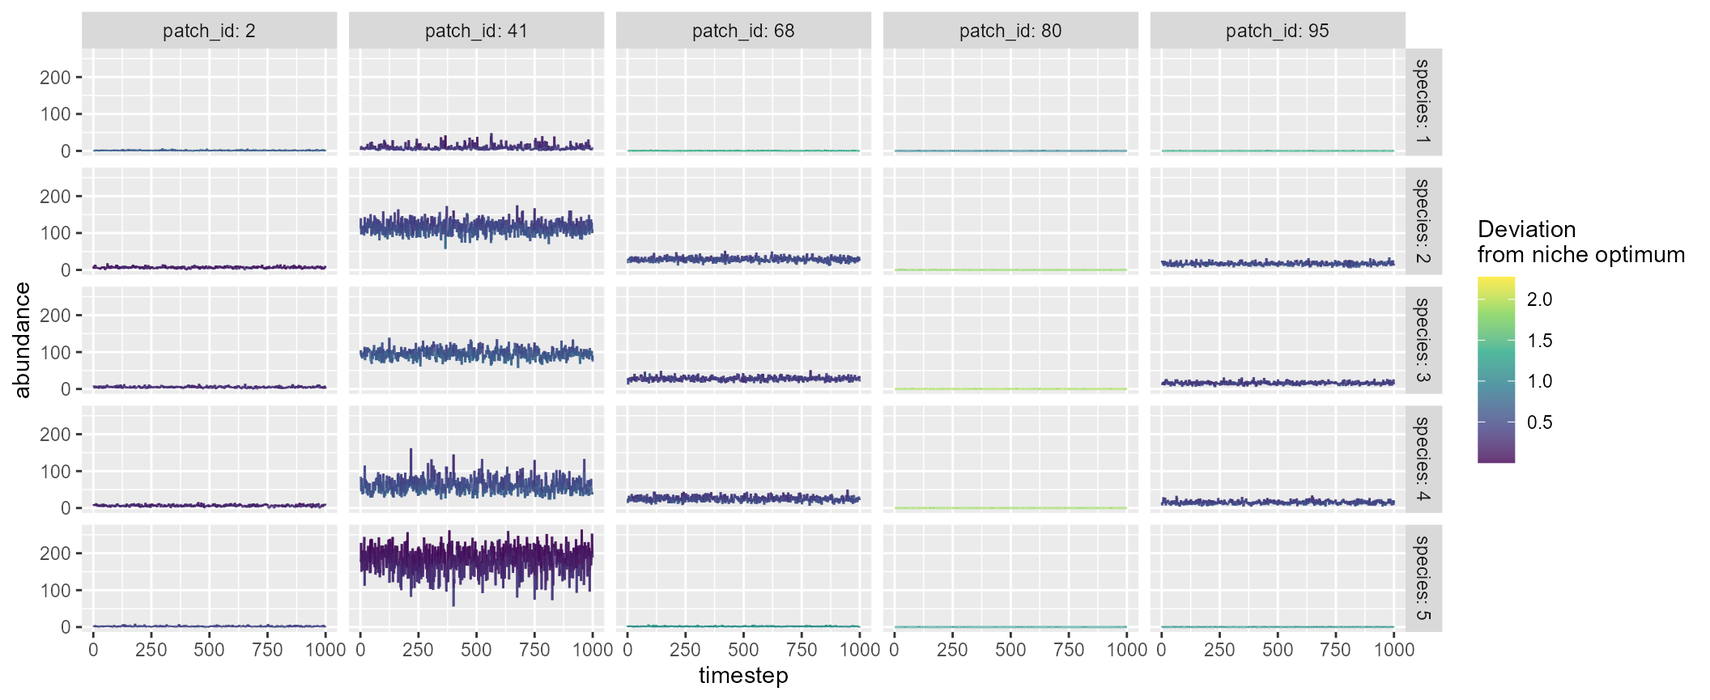
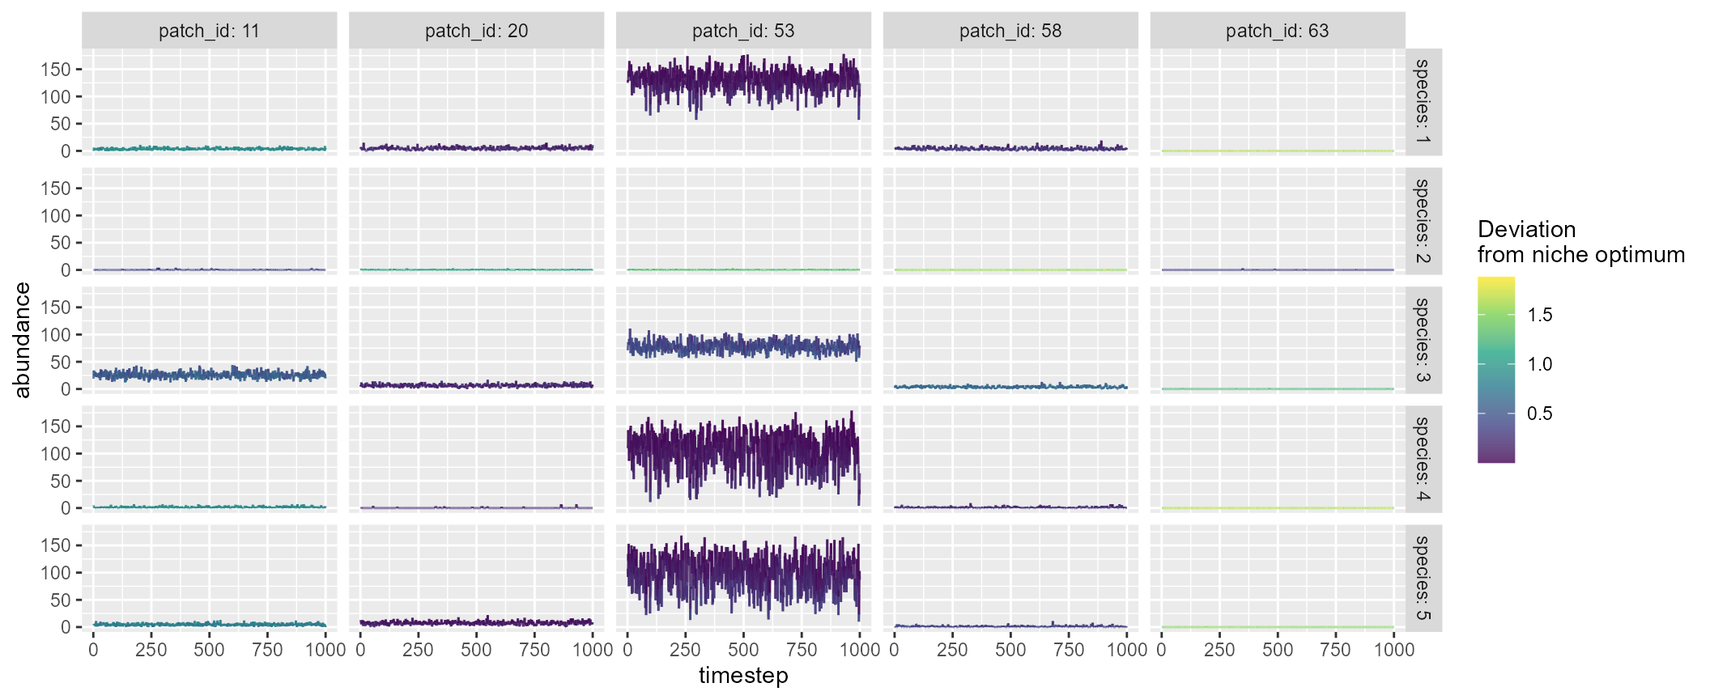
edit: pkg website

diff --git a/docs/articles/mcsim.html b/docs/articles/mcsim.html
@@ -198,64 +198,64 @@ species that are randomly chosen:</p>
 <code class="sourceCode R"><span><span class="va">mc</span></span>
 <span><span class="co">#&gt; $df_dynamics</span></span>
 <span><span class="co">#&gt; <span style="color: #949494;"># A tibble: 25,000 × 9</span></span></span>
-<span><span class="co">#&gt;    timestep patch_id mean_env    env carrying_capacity species niche_optim  r_xt</span></span>
-<span><span class="co">#&gt;       <span style="color: #949494; font-style: italic;">&lt;dbl&gt;</span>    <span style="color: #949494; font-style: italic;">&lt;dbl&gt;</span>    <span style="color: #949494; font-style: italic;">&lt;dbl&gt;</span>  <span style="color: #949494; font-style: italic;">&lt;dbl&gt;</span>             <span style="color: #949494; font-style: italic;">&lt;dbl&gt;</span>   <span style="color: #949494; font-style: italic;">&lt;dbl&gt;</span>       <span style="color: #949494; font-style: italic;">&lt;dbl&gt;</span> <span style="color: #949494; font-style: italic;">&lt;dbl&gt;</span></span></span>
-<span><span class="co">#&gt; <span style="color: #BCBCBC;"> 1</span>        1        1        0 0.073<span style="text-decoration: underline;">9</span>               100       1       0.416  2.45</span></span>
-<span><span class="co">#&gt; <span style="color: #BCBCBC;"> 2</span>        1        1        0 0.073<span style="text-decoration: underline;">9</span>               100       2      -<span style="color: #BB0000;">0.965</span>  1.24</span></span>
-<span><span class="co">#&gt; <span style="color: #BCBCBC;"> 3</span>        1        1        0 0.073<span style="text-decoration: underline;">9</span>               100       3      -<span style="color: #BB0000;">0.635</span>  1.92</span></span>
-<span><span class="co">#&gt; <span style="color: #BCBCBC;"> 4</span>        1        1        0 0.073<span style="text-decoration: underline;">9</span>               100       4       0.409  2.84</span></span>
-<span><span class="co">#&gt; <span style="color: #BCBCBC;"> 5</span>        1        1        0 0.073<span style="text-decoration: underline;">9</span>               100       5       0.812  1.85</span></span>
-<span><span class="co">#&gt; <span style="color: #BCBCBC;"> 6</span>        1        2        0 0.043<span style="text-decoration: underline;">6</span>               100       1       0.416  2.42</span></span>
-<span><span class="co">#&gt; <span style="color: #BCBCBC;"> 7</span>        1        2        0 0.043<span style="text-decoration: underline;">6</span>               100       2      -<span style="color: #BB0000;">0.965</span>  1.30</span></span>
-<span><span class="co">#&gt; <span style="color: #BCBCBC;"> 8</span>        1        2        0 0.043<span style="text-decoration: underline;">6</span>               100       3      -<span style="color: #BB0000;">0.635</span>  2.00</span></span>
-<span><span class="co">#&gt; <span style="color: #BCBCBC;"> 9</span>        1        2        0 0.043<span style="text-decoration: underline;">6</span>               100       4       0.409  2.72</span></span>
-<span><span class="co">#&gt; <span style="color: #BCBCBC;">10</span>        1        2        0 0.043<span style="text-decoration: underline;">6</span>               100       5       0.812  1.81</span></span>
+<span><span class="co">#&gt;    timestep patch_id mean_env      env carrying_capacity species niche_optim</span></span>
+<span><span class="co">#&gt;       <span style="color: #949494; font-style: italic;">&lt;dbl&gt;</span>    <span style="color: #949494; font-style: italic;">&lt;dbl&gt;</span>    <span style="color: #949494; font-style: italic;">&lt;dbl&gt;</span>    <span style="color: #949494; font-style: italic;">&lt;dbl&gt;</span>             <span style="color: #949494; font-style: italic;">&lt;dbl&gt;</span>   <span style="color: #949494; font-style: italic;">&lt;dbl&gt;</span>       <span style="color: #949494; font-style: italic;">&lt;dbl&gt;</span></span></span>
+<span><span class="co">#&gt; <span style="color: #BCBCBC;"> 1</span>        1        1        0  0.009<span style="text-decoration: underline;">79</span>               100       1      -<span style="color: #BB0000;">0.166</span></span></span>
+<span><span class="co">#&gt; <span style="color: #BCBCBC;"> 2</span>        1        1        0  0.009<span style="text-decoration: underline;">79</span>               100       2      -<span style="color: #BB0000;">0.754</span></span></span>
+<span><span class="co">#&gt; <span style="color: #BCBCBC;"> 3</span>        1        1        0  0.009<span style="text-decoration: underline;">79</span>               100       3       0.623</span></span>
+<span><span class="co">#&gt; <span style="color: #BCBCBC;"> 4</span>        1        1        0  0.009<span style="text-decoration: underline;">79</span>               100       4      -<span style="color: #BB0000;">0.196</span></span></span>
+<span><span class="co">#&gt; <span style="color: #BCBCBC;"> 5</span>        1        1        0  0.009<span style="text-decoration: underline;">79</span>               100       5       0.717</span></span>
+<span><span class="co">#&gt; <span style="color: #BCBCBC;"> 6</span>        1        2        0 -<span style="color: #BB0000;">0.007</span><span style="color: #BB0000; text-decoration: underline;">19</span>               100       1      -<span style="color: #BB0000;">0.166</span></span></span>
+<span><span class="co">#&gt; <span style="color: #BCBCBC;"> 7</span>        1        2        0 -<span style="color: #BB0000;">0.007</span><span style="color: #BB0000; text-decoration: underline;">19</span>               100       2      -<span style="color: #BB0000;">0.754</span></span></span>
+<span><span class="co">#&gt; <span style="color: #BCBCBC;"> 8</span>        1        2        0 -<span style="color: #BB0000;">0.007</span><span style="color: #BB0000; text-decoration: underline;">19</span>               100       3       0.623</span></span>
+<span><span class="co">#&gt; <span style="color: #BCBCBC;"> 9</span>        1        2        0 -<span style="color: #BB0000;">0.007</span><span style="color: #BB0000; text-decoration: underline;">19</span>               100       4      -<span style="color: #BB0000;">0.196</span></span></span>
+<span><span class="co">#&gt; <span style="color: #BCBCBC;">10</span>        1        2        0 -<span style="color: #BB0000;">0.007</span><span style="color: #BB0000; text-decoration: underline;">19</span>               100       5       0.717</span></span>
 <span><span class="co">#&gt; <span style="color: #949494;"># ℹ 24,990 more rows</span></span></span>
-<span><span class="co">#&gt; <span style="color: #949494;"># ℹ 1 more variable: abundance &lt;dbl&gt;</span></span></span>
+<span><span class="co">#&gt; <span style="color: #949494;"># ℹ 2 more variables: r_xt &lt;dbl&gt;, abundance &lt;dbl&gt;</span></span></span>
 <span><span class="co">#&gt; </span></span>
 <span><span class="co">#&gt; $df_species</span></span>
 <span><span class="co">#&gt; <span style="color: #949494;"># A tibble: 5 × 6</span></span></span>
 <span><span class="co">#&gt;   species mean_abundance    r0 niche_optim sd_niche_width p_dispersal</span></span>
 <span><span class="co">#&gt;     <span style="color: #949494; font-style: italic;">&lt;dbl&gt;</span>          <span style="color: #949494; font-style: italic;">&lt;dbl&gt;</span> <span style="color: #949494; font-style: italic;">&lt;dbl&gt;</span>       <span style="color: #949494; font-style: italic;">&lt;dbl&gt;</span>          <span style="color: #949494; font-style: italic;">&lt;dbl&gt;</span>       <span style="color: #949494; font-style: italic;">&lt;dbl&gt;</span></span></span>
-<span><span class="co">#&gt; <span style="color: #BCBCBC;">1</span>       1          44.4      4       0.416          0.915         0.1</span></span>
-<span><span class="co">#&gt; <span style="color: #BCBCBC;">2</span>       2           1.56     4      -<span style="color: #BB0000;">0.965</span>          0.794         0.1</span></span>
-<span><span class="co">#&gt; <span style="color: #BCBCBC;">3</span>       3          34.9      4      -<span style="color: #BB0000;">0.635</span>          0.740         0.1</span></span>
-<span><span class="co">#&gt; <span style="color: #BCBCBC;">4</span>       4          49.7      4       0.409          0.516         0.1</span></span>
-<span><span class="co">#&gt; <span style="color: #BCBCBC;">5</span>       5          23.1      4       0.812          0.994         0.1</span></span>
+<span><span class="co">#&gt; <span style="color: #BCBCBC;">1</span>       1           74.6     4      -<span style="color: #BB0000;">0.166</span>          0.349         0.1</span></span>
+<span><span class="co">#&gt; <span style="color: #BCBCBC;">2</span>       2           17.0     4      -<span style="color: #BB0000;">0.754</span>          0.616         0.1</span></span>
+<span><span class="co">#&gt; <span style="color: #BCBCBC;">3</span>       3            0       4       0.623          0.281         0.1</span></span>
+<span><span class="co">#&gt; <span style="color: #BCBCBC;">4</span>       4           54.7     4      -<span style="color: #BB0000;">0.196</span>          0.867         0.1</span></span>
+<span><span class="co">#&gt; <span style="color: #BCBCBC;">5</span>       5            0       4       0.717          0.364         0.1</span></span>
 <span><span class="co">#&gt; </span></span>
 <span><span class="co">#&gt; $df_patch</span></span>
 <span><span class="co">#&gt; <span style="color: #949494;"># A tibble: 5 × 5</span></span></span>
 <span><span class="co">#&gt;   patch_id alpha_div mean_env carrying_capacity disturbance</span></span>
 <span><span class="co">#&gt;      <span style="color: #949494; font-style: italic;">&lt;dbl&gt;</span>     <span style="color: #949494; font-style: italic;">&lt;dbl&gt;</span>    <span style="color: #949494; font-style: italic;">&lt;dbl&gt;</span>             <span style="color: #949494; font-style: italic;">&lt;dbl&gt;</span>       <span style="color: #949494; font-style: italic;">&lt;dbl&gt;</span></span></span>
-<span><span class="co">#&gt; <span style="color: #BCBCBC;">1</span>        1      4.04        0               100           0</span></span>
-<span><span class="co">#&gt; <span style="color: #BCBCBC;">2</span>        2      4           0               100           0</span></span>
-<span><span class="co">#&gt; <span style="color: #BCBCBC;">3</span>        3      4.33        0               100           0</span></span>
-<span><span class="co">#&gt; <span style="color: #BCBCBC;">4</span>        4      4.35        0               100           0</span></span>
-<span><span class="co">#&gt; <span style="color: #BCBCBC;">5</span>        5      4.06        0               100           0</span></span>
+<span><span class="co">#&gt; <span style="color: #BCBCBC;">1</span>        1      3           0               100           0</span></span>
+<span><span class="co">#&gt; <span style="color: #BCBCBC;">2</span>        2      3           0               100           0</span></span>
+<span><span class="co">#&gt; <span style="color: #BCBCBC;">3</span>        3      3           0               100           0</span></span>
+<span><span class="co">#&gt; <span style="color: #BCBCBC;">4</span>        4      3.00        0               100           0</span></span>
+<span><span class="co">#&gt; <span style="color: #BCBCBC;">5</span>        5      3           0               100           0</span></span>
 <span><span class="co">#&gt; </span></span>
 <span><span class="co">#&gt; $df_diversity</span></span>
 <span><span class="co">#&gt; <span style="color: #949494;"># A tibble: 1 × 3</span></span></span>
 <span><span class="co">#&gt;   alpha_div beta_div gamma_div</span></span>
 <span><span class="co">#&gt;       <span style="color: #949494; font-style: italic;">&lt;dbl&gt;</span>    <span style="color: #949494; font-style: italic;">&lt;dbl&gt;</span>     <span style="color: #949494; font-style: italic;">&lt;dbl&gt;</span></span></span>
-<span><span class="co">#&gt; <span style="color: #BCBCBC;">1</span>      4.16     1.05      4.35</span></span>
+<span><span class="co">#&gt; <span style="color: #BCBCBC;">1</span>      3.00     1.00         3</span></span>
 <span><span class="co">#&gt; </span></span>
 <span><span class="co">#&gt; $df_xy_coord</span></span>
 <span><span class="co">#&gt; <span style="color: #949494;"># A tibble: 5 × 2</span></span></span>
 <span><span class="co">#&gt;   x_coord y_coord</span></span>
 <span><span class="co">#&gt;     <span style="color: #949494; font-style: italic;">&lt;dbl&gt;</span>   <span style="color: #949494; font-style: italic;">&lt;dbl&gt;</span></span></span>
-<span><span class="co">#&gt; <span style="color: #BCBCBC;">1</span>    1.02  0.012<span style="text-decoration: underline;">1</span></span></span>
-<span><span class="co">#&gt; <span style="color: #BCBCBC;">2</span>    9.33  0.402 </span></span>
-<span><span class="co">#&gt; <span style="color: #BCBCBC;">3</span>    1.24  5.99  </span></span>
-<span><span class="co">#&gt; <span style="color: #BCBCBC;">4</span>    1.29  5.61  </span></span>
-<span><span class="co">#&gt; <span style="color: #BCBCBC;">5</span>    6.20  5.27  </span></span>
+<span><span class="co">#&gt; <span style="color: #BCBCBC;">1</span>   7.11    2.56 </span></span>
+<span><span class="co">#&gt; <span style="color: #BCBCBC;">2</span>   1.17    0.442</span></span>
+<span><span class="co">#&gt; <span style="color: #BCBCBC;">3</span>   3.95    5.63 </span></span>
+<span><span class="co">#&gt; <span style="color: #BCBCBC;">4</span>   9.90    4.78 </span></span>
+<span><span class="co">#&gt; <span style="color: #BCBCBC;">5</span>   0.636   2.87 </span></span>
 <span><span class="co">#&gt; </span></span>
 <span><span class="co">#&gt; $distance_matrix</span></span>
-<span><span class="co">#&gt;          1        2         3         4        5</span></span>
-<span><span class="co">#&gt; 1 0.000000 8.318460 5.9785683 5.5996909 7.376973</span></span>
-<span><span class="co">#&gt; 2 8.318460 0.000000 9.8289810 9.5798816 5.788352</span></span>
-<span><span class="co">#&gt; 3 5.978568 9.828981 0.0000000 0.3837337 5.006414</span></span>
-<span><span class="co">#&gt; 4 5.599691 9.579882 0.3837337 0.0000000 4.921377</span></span>
-<span><span class="co">#&gt; 5 7.376973 5.788352 5.0064139 4.9213769 0.000000</span></span>
+<span><span class="co">#&gt;          1        2        3        4        5</span></span>
+<span><span class="co">#&gt; 1 0.000000 6.307674 4.399591 3.565319 6.477949</span></span>
+<span><span class="co">#&gt; 2 6.307674 0.000000 5.888682 9.752065 2.489098</span></span>
+<span><span class="co">#&gt; 3 4.399591 5.888682 0.000000 6.011777 4.311813</span></span>
+<span><span class="co">#&gt; 4 3.565319 9.752065 6.011777 0.000000 9.459697</span></span>
+<span><span class="co">#&gt; 5 6.477949 2.489098 4.311813 9.459697 0.000000</span></span>
 <span><span class="co">#&gt; </span></span>
 <span><span class="co">#&gt; $interaction_matrix</span></span>
 <span><span class="co">#&gt;      [,1] [,2] [,3] [,4] [,5]</span></span>

diff --git a/docs/articles/igpsim.html b/docs/articles/igpsim.html
@@ -190,25 +190,25 @@ by <code>plot = TRUE</code>, which will show five sample patches:</p>
 <span><span class="co">#&gt; <span style="color: #949494;"># A tibble: 15,000 × 7</span></span></span>
 <span><span class="co">#&gt;    timestep patch_id carrying_capacity disturbance species     abundance   fcl</span></span>
 <span><span class="co">#&gt;       <span style="color: #949494; font-style: italic;">&lt;dbl&gt;</span>    <span style="color: #949494; font-style: italic;">&lt;dbl&gt;</span>             <span style="color: #949494; font-style: italic;">&lt;dbl&gt;</span>       <span style="color: #949494; font-style: italic;">&lt;dbl&gt;</span> <span style="color: #949494; font-style: italic;">&lt;fct&gt;</span>           <span style="color: #949494; font-style: italic;">&lt;dbl&gt;</span> <span style="color: #949494; font-style: italic;">&lt;dbl&gt;</span></span></span>
-<span><span class="co">#&gt; <span style="color: #BCBCBC;"> 1</span>        1        1               100           0 basal              65     2</span></span>
+<span><span class="co">#&gt; <span style="color: #BCBCBC;"> 1</span>        1        1               100           0 basal              63     2</span></span>
 <span><span class="co">#&gt; <span style="color: #BCBCBC;"> 2</span>        1        1               100           0 ig-prey             0     2</span></span>
-<span><span class="co">#&gt; <span style="color: #BCBCBC;"> 3</span>        1        1               100           0 ig-predator        37     2</span></span>
-<span><span class="co">#&gt; <span style="color: #BCBCBC;"> 4</span>        1        2               100           0 basal              60     2</span></span>
+<span><span class="co">#&gt; <span style="color: #BCBCBC;"> 3</span>        1        1               100           0 ig-predator        36     2</span></span>
+<span><span class="co">#&gt; <span style="color: #BCBCBC;"> 4</span>        1        2               100           0 basal              63     2</span></span>
 <span><span class="co">#&gt; <span style="color: #BCBCBC;"> 5</span>        1        2               100           0 ig-prey             0     2</span></span>
-<span><span class="co">#&gt; <span style="color: #BCBCBC;"> 6</span>        1        2               100           0 ig-predator        12     2</span></span>
-<span><span class="co">#&gt; <span style="color: #BCBCBC;"> 7</span>        1        3               100           0 basal              46     2</span></span>
+<span><span class="co">#&gt; <span style="color: #BCBCBC;"> 6</span>        1        2               100           0 ig-predator        20     2</span></span>
+<span><span class="co">#&gt; <span style="color: #BCBCBC;"> 7</span>        1        3               100           0 basal              59     2</span></span>
 <span><span class="co">#&gt; <span style="color: #BCBCBC;"> 8</span>        1        3               100           0 ig-prey             0     2</span></span>
-<span><span class="co">#&gt; <span style="color: #BCBCBC;"> 9</span>        1        3               100           0 ig-predator        61     2</span></span>
-<span><span class="co">#&gt; <span style="color: #BCBCBC;">10</span>        1        4               100           0 basal              69     2</span></span>
+<span><span class="co">#&gt; <span style="color: #BCBCBC;"> 9</span>        1        3               100           0 ig-predator        36     2</span></span>
+<span><span class="co">#&gt; <span style="color: #BCBCBC;">10</span>        1        4               100           0 basal              53     2</span></span>
 <span><span class="co">#&gt; <span style="color: #949494;"># ℹ 14,990 more rows</span></span></span>
 <span><span class="co">#&gt; </span></span>
 <span><span class="co">#&gt; $df_species</span></span>
 <span><span class="co">#&gt; <span style="color: #949494;"># A tibble: 3 × 3</span></span></span>
 <span><span class="co">#&gt;   species     mean_abundance p_dispersal</span></span>
 <span><span class="co">#&gt;   <span style="color: #949494; font-style: italic;">&lt;fct&gt;</span>                <span style="color: #949494; font-style: italic;">&lt;dbl&gt;</span>       <span style="color: #949494; font-style: italic;">&lt;dbl&gt;</span></span></span>
-<span><span class="co">#&gt; <span style="color: #BCBCBC;">1</span> basal                 61.1         0.1</span></span>
+<span><span class="co">#&gt; <span style="color: #BCBCBC;">1</span> basal                 62.1         0.1</span></span>
 <span><span class="co">#&gt; <span style="color: #BCBCBC;">2</span> ig-prey                0           0.1</span></span>
-<span><span class="co">#&gt; <span style="color: #BCBCBC;">3</span> ig-predator           29.1         0.1</span></span>
+<span><span class="co">#&gt; <span style="color: #BCBCBC;">3</span> ig-predator           28.2         0.1</span></span>
 <span><span class="co">#&gt; </span></span>
 <span><span class="co">#&gt; $df_patch</span></span>
 <span><span class="co">#&gt; <span style="color: #949494;"># A tibble: 5 × 4</span></span></span>
@@ -217,7 +217,7 @@ by <code>plot = TRUE</code>, which will show five sample patches:</p>
 <span><span class="co">#&gt; <span style="color: #BCBCBC;">1</span>        1  2                  100           0</span></span>
 <span><span class="co">#&gt; <span style="color: #BCBCBC;">2</span>        2  2.00               100           0</span></span>
 <span><span class="co">#&gt; <span style="color: #BCBCBC;">3</span>        3  2                  100           0</span></span>
-<span><span class="co">#&gt; <span style="color: #BCBCBC;">4</span>        4  2.00               100           0</span></span>
+<span><span class="co">#&gt; <span style="color: #BCBCBC;">4</span>        4  2                  100           0</span></span>
 <span><span class="co">#&gt; <span style="color: #BCBCBC;">5</span>        5  2                  100           0</span></span>
 <span><span class="co">#&gt; </span></span>
 <span><span class="co">#&gt; $df_int</span></span>
@@ -232,19 +232,19 @@ by <code>plot = TRUE</code>, which will show five sample patches:</p>
 <span><span class="co">#&gt; <span style="color: #949494;"># A tibble: 5 × 2</span></span></span>
 <span><span class="co">#&gt;   x_coord y_coord</span></span>
 <span><span class="co">#&gt;     <span style="color: #949494; font-style: italic;">&lt;dbl&gt;</span>   <span style="color: #949494; font-style: italic;">&lt;dbl&gt;</span></span></span>
-<span><span class="co">#&gt; <span style="color: #BCBCBC;">1</span>    7.87    5.94</span></span>
-<span><span class="co">#&gt; <span style="color: #BCBCBC;">2</span>    6.99    2.88</span></span>
-<span><span class="co">#&gt; <span style="color: #BCBCBC;">3</span>    1.60    3.55</span></span>
-<span><span class="co">#&gt; <span style="color: #BCBCBC;">4</span>    7.76    8.53</span></span>
-<span><span class="co">#&gt; <span style="color: #BCBCBC;">5</span>    1.47    1.76</span></span>
+<span><span class="co">#&gt; <span style="color: #BCBCBC;">1</span>    3.78  0.080<span style="text-decoration: underline;">3</span></span></span>
+<span><span class="co">#&gt; <span style="color: #BCBCBC;">2</span>    2.60  7.08  </span></span>
+<span><span class="co">#&gt; <span style="color: #BCBCBC;">3</span>    3.08  4.52  </span></span>
+<span><span class="co">#&gt; <span style="color: #BCBCBC;">4</span>    3.10  0.070<span style="text-decoration: underline;">9</span></span></span>
+<span><span class="co">#&gt; <span style="color: #BCBCBC;">5</span>    3.13  2.80  </span></span>
 <span><span class="co">#&gt; </span></span>
 <span><span class="co">#&gt; $distance_matrix</span></span>
-<span><span class="co">#&gt;          1        2        3        4        5</span></span>
-<span><span class="co">#&gt; 1 0.000000 3.177998 6.709607 2.591298 7.642857</span></span>
-<span><span class="co">#&gt; 2 3.177998 0.000000 5.434516 5.695978 5.635594</span></span>
-<span><span class="co">#&gt; 3 6.709607 5.434516 0.000000 7.921861 1.795766</span></span>
-<span><span class="co">#&gt; 4 2.591298 5.695978 7.921861 0.000000 9.241080</span></span>
-<span><span class="co">#&gt; 5 7.642857 5.635594 1.795766 9.241080 0.000000</span></span></code></pre></div>
+<span><span class="co">#&gt;           1        2        3         4        5</span></span>
+<span><span class="co">#&gt; 1 0.0000000 7.102007 4.497766 0.6764073 2.792401</span></span>
+<span><span class="co">#&gt; 2 7.1020074 0.000000 2.604857 7.0315773 4.320499</span></span>
+<span><span class="co">#&gt; 3 4.4977665 2.604857 0.000000 4.4528201 1.728118</span></span>
+<span><span class="co">#&gt; 4 0.6764073 7.031577 4.452820 0.0000000 2.725467</span></span>
+<span><span class="co">#&gt; 5 2.7924011 4.320499 1.728118 2.7254666 0.000000</span></span></code></pre></div>
 </div>
 <div class="section level2">
 <h2 id="custom-brnet-igpsim">Custom: <code>brnet()</code> + <code>igpsim()</code><a class="anchor" aria-label="anchor" href="#custom-brnet-igpsim"></a>

diff --git a/docs/404.html b/docs/404.html
@@ -6,23 +6,23 @@
 <meta http-equiv="X-UA-Compatible" content="IE=edge">
 <meta name="viewport" content="width=device-width, initial-scale=1, shrink-to-fit=no">
 <title>Page not found (404) • mcbrnet</title>
-<script src="aterui.github.io/mcbrnet/deps/jquery-3.6.0/jquery-3.6.0.min.js"></script><meta name="viewport" content="width=device-width, initial-scale=1, shrink-to-fit=no">
-<link href="aterui.github.io/mcbrnet/deps/bootstrap-5.1.3/bootstrap.min.css" rel="stylesheet">
-<script src="aterui.github.io/mcbrnet/deps/bootstrap-5.1.3/bootstrap.bundle.min.js"></script><!-- Font Awesome icons --><link rel="stylesheet" href="https://cdnjs.cloudflare.com/ajax/libs/font-awesome/5.12.1/css/all.min.css" integrity="sha256-mmgLkCYLUQbXn0B1SRqzHar6dCnv9oZFPEC1g1cwlkk=" crossorigin="anonymous">
+<script src="https://aterui.github.io/mcbrnet/deps/jquery-3.6.0/jquery-3.6.0.min.js"></script><meta name="viewport" content="width=device-width, initial-scale=1, shrink-to-fit=no">
+<link href="https://aterui.github.io/mcbrnet/deps/bootstrap-5.1.3/bootstrap.min.css" rel="stylesheet">
+<script src="https://aterui.github.io/mcbrnet/deps/bootstrap-5.1.3/bootstrap.bundle.min.js"></script><!-- Font Awesome icons --><link rel="stylesheet" href="https://cdnjs.cloudflare.com/ajax/libs/font-awesome/5.12.1/css/all.min.css" integrity="sha256-mmgLkCYLUQbXn0B1SRqzHar6dCnv9oZFPEC1g1cwlkk=" crossorigin="anonymous">
 <link rel="stylesheet" href="https://cdnjs.cloudflare.com/ajax/libs/font-awesome/5.12.1/css/v4-shims.min.css" integrity="sha256-wZjR52fzng1pJHwx4aV2AO3yyTOXrcDW7jBpJtTwVxw=" crossorigin="anonymous">
-<!-- bootstrap-toc --><script src="https://cdn.jsdelivr.net/gh/afeld/bootstrap-toc@v1.0.1/dist/bootstrap-toc.min.js" integrity="sha256-4veVQbu7//Lk5TSmc7YV48MxtMy98e26cf5MrgZYnwo=" crossorigin="anonymous"></script><!-- headroom.js --><script src="https://cdnjs.cloudflare.com/ajax/libs/headroom/0.11.0/headroom.min.js" integrity="sha256-AsUX4SJE1+yuDu5+mAVzJbuYNPHj/WroHuZ8Ir/CkE0=" crossorigin="anonymous"></script><script src="https://cdnjs.cloudflare.com/ajax/libs/headroom/0.11.0/jQuery.headroom.min.js" integrity="sha256-ZX/yNShbjqsohH1k95liqY9Gd8uOiE1S4vZc+9KQ1K4=" crossorigin="anonymous"></script><!-- clipboard.js --><script src="https://cdnjs.cloudflare.com/ajax/libs/clipboard.js/2.0.6/clipboard.min.js" integrity="sha256-inc5kl9MA1hkeYUt+EC3BhlIgyp/2jDIyBLS6k3UxPI=" crossorigin="anonymous"></script><!-- search --><script src="https://cdnjs.cloudflare.com/ajax/libs/fuse.js/6.4.6/fuse.js" integrity="sha512-zv6Ywkjyktsohkbp9bb45V6tEMoWhzFzXis+LrMehmJZZSys19Yxf1dopHx7WzIKxr5tK2dVcYmaCk2uqdjF4A==" crossorigin="anonymous"></script><script src="https://cdnjs.cloudflare.com/ajax/libs/autocomplete.js/0.38.0/autocomplete.jquery.min.js" integrity="sha512-GU9ayf+66Xx2TmpxqJpliWbT5PiGYxpaG8rfnBEk1LL8l1KGkRShhngwdXK1UgqhAzWpZHSiYPc09/NwDQIGyg==" crossorigin="anonymous"></script><script src="https://cdnjs.cloudflare.com/ajax/libs/mark.js/8.11.1/mark.min.js" integrity="sha512-5CYOlHXGh6QpOFA/TeTylKLWfB3ftPsde7AnmhuitiTX4K5SqCLBeKro6sPS8ilsz1Q4NRx3v8Ko2IBiszzdww==" crossorigin="anonymous"></script><!-- pkgdown --><script src="aterui.github.io/mcbrnet/pkgdown.js"></script><meta property="og:title" content="Page not found (404)">
+<!-- bootstrap-toc --><script src="https://cdn.jsdelivr.net/gh/afeld/bootstrap-toc@v1.0.1/dist/bootstrap-toc.min.js" integrity="sha256-4veVQbu7//Lk5TSmc7YV48MxtMy98e26cf5MrgZYnwo=" crossorigin="anonymous"></script><!-- headroom.js --><script src="https://cdnjs.cloudflare.com/ajax/libs/headroom/0.11.0/headroom.min.js" integrity="sha256-AsUX4SJE1+yuDu5+mAVzJbuYNPHj/WroHuZ8Ir/CkE0=" crossorigin="anonymous"></script><script src="https://cdnjs.cloudflare.com/ajax/libs/headroom/0.11.0/jQuery.headroom.min.js" integrity="sha256-ZX/yNShbjqsohH1k95liqY9Gd8uOiE1S4vZc+9KQ1K4=" crossorigin="anonymous"></script><!-- clipboard.js --><script src="https://cdnjs.cloudflare.com/ajax/libs/clipboard.js/2.0.6/clipboard.min.js" integrity="sha256-inc5kl9MA1hkeYUt+EC3BhlIgyp/2jDIyBLS6k3UxPI=" crossorigin="anonymous"></script><!-- search --><script src="https://cdnjs.cloudflare.com/ajax/libs/fuse.js/6.4.6/fuse.js" integrity="sha512-zv6Ywkjyktsohkbp9bb45V6tEMoWhzFzXis+LrMehmJZZSys19Yxf1dopHx7WzIKxr5tK2dVcYmaCk2uqdjF4A==" crossorigin="anonymous"></script><script src="https://cdnjs.cloudflare.com/ajax/libs/autocomplete.js/0.38.0/autocomplete.jquery.min.js" integrity="sha512-GU9ayf+66Xx2TmpxqJpliWbT5PiGYxpaG8rfnBEk1LL8l1KGkRShhngwdXK1UgqhAzWpZHSiYPc09/NwDQIGyg==" crossorigin="anonymous"></script><script src="https://cdnjs.cloudflare.com/ajax/libs/mark.js/8.11.1/mark.min.js" integrity="sha512-5CYOlHXGh6QpOFA/TeTylKLWfB3ftPsde7AnmhuitiTX4K5SqCLBeKro6sPS8ilsz1Q4NRx3v8Ko2IBiszzdww==" crossorigin="anonymous"></script><!-- pkgdown --><script src="https://aterui.github.io/mcbrnet/pkgdown.js"></script><meta property="og:title" content="Page not found (404)">
 <!-- mathjax --><script src="https://cdnjs.cloudflare.com/ajax/libs/mathjax/2.7.5/MathJax.js" integrity="sha256-nvJJv9wWKEm88qvoQl9ekL2J+k/RWIsaSScxxlsrv8k=" crossorigin="anonymous"></script><script src="https://cdnjs.cloudflare.com/ajax/libs/mathjax/2.7.5/config/TeX-AMS-MML_HTMLorMML.js" integrity="sha256-84DKXVJXs0/F8OTMzX4UR909+jtl4G7SPypPavF+GfA=" crossorigin="anonymous"></script><!--[if lt IE 9]>
 <script src="https://oss.maxcdn.com/html5shiv/3.7.3/html5shiv.min.js"></script>
 <script src="https://oss.maxcdn.com/respond/1.4.2/respond.min.js"></script>
 <![endif]-->
 </head>
 <body>
-    <a href="aterui.github.io/mcbrnet/#main" class="visually-hidden-focusable">Skip to contents</a>
+    <a href="https://aterui.github.io/mcbrnet/#main" class="visually-hidden-focusable">Skip to contents</a>
     
 
     <nav class="navbar fixed-top navbar-light navbar-expand-lg bg-light"><div class="container">
     
-    <a class="navbar-brand me-2" href="aterui.github.io/mcbrnet/index.html">mcbrnet</a>
+    <a class="navbar-brand me-2" href="https://aterui.github.io/mcbrnet/index.html">mcbrnet</a>
 
     <small class="nav-text text-muted me-auto" data-bs-toggle="tooltip" data-bs-placement="bottom" title="">1.4.0</small>
 
@@ -34,19 +34,19 @@
     <div id="navbar" class="collapse navbar-collapse ms-3">
       <ul class="navbar-nav me-auto">
 <li class="nav-item">
-  <a class="nav-link" href="aterui.github.io/mcbrnet/reference/index.html">Reference</a>
+  <a class="nav-link" href="https://aterui.github.io/mcbrnet/reference/index.html">Reference</a>
 </li>
 <li class="nav-item dropdown">
-  <a href="aterui.github.io/mcbrnet/#" class="nav-link dropdown-toggle" data-bs-toggle="dropdown" role="button" aria-expanded="false" aria-haspopup="true" id="dropdown-articles">Articles</a>
+  <a href="https://aterui.github.io/mcbrnet/#" class="nav-link dropdown-toggle" data-bs-toggle="dropdown" role="button" aria-expanded="false" aria-haspopup="true" id="dropdown-articles">Articles</a>
   <div class="dropdown-menu" aria-labelledby="dropdown-articles">
-    <a class="dropdown-item" href="aterui.github.io/mcbrnet/articles/brnet.html">brnet</a>
-    <a class="dropdown-item" href="aterui.github.io/mcbrnet/articles/ggbrnet.html">ggbrnet</a>
-    <a class="dropdown-item" href="aterui.github.io/mcbrnet/articles/igpsim.html">igpsim</a>
-    <a class="dropdown-item" href="aterui.github.io/mcbrnet/articles/mcsim.html">mcsim</a>
+    <a class="dropdown-item" href="https://aterui.github.io/mcbrnet/articles/brnet.html">brnet</a>
+    <a class="dropdown-item" href="https://aterui.github.io/mcbrnet/articles/ggbrnet.html">ggbrnet</a>
+    <a class="dropdown-item" href="https://aterui.github.io/mcbrnet/articles/igpsim.html">igpsim</a>
+    <a class="dropdown-item" href="https://aterui.github.io/mcbrnet/articles/mcsim.html">mcsim</a>
   </div>
 </li>
 <li class="nav-item">
-  <a class="nav-link" href="aterui.github.io/mcbrnet/news/index.html">Changelog</a>
+  <a class="nav-link" href="https://aterui.github.io/mcbrnet/news/index.html">Changelog</a>
 </li>
       </ul>
 <form class="form-inline my-2 my-lg-0" role="search">
@@ -68,7 +68,7 @@
 </nav><div class="container template-title-body">
 <div class="row">
   <main id="main" class="col-md-9"><div class="page-header">
-      <img src="aterui.github.io/mcbrnet/" class="logo" alt=""><h1>Page not found (404)</h1>
+      <img src="https://aterui.github.io/mcbrnet/" class="logo" alt=""><h1>Page not found (404)</h1>
       
     </div>
 
